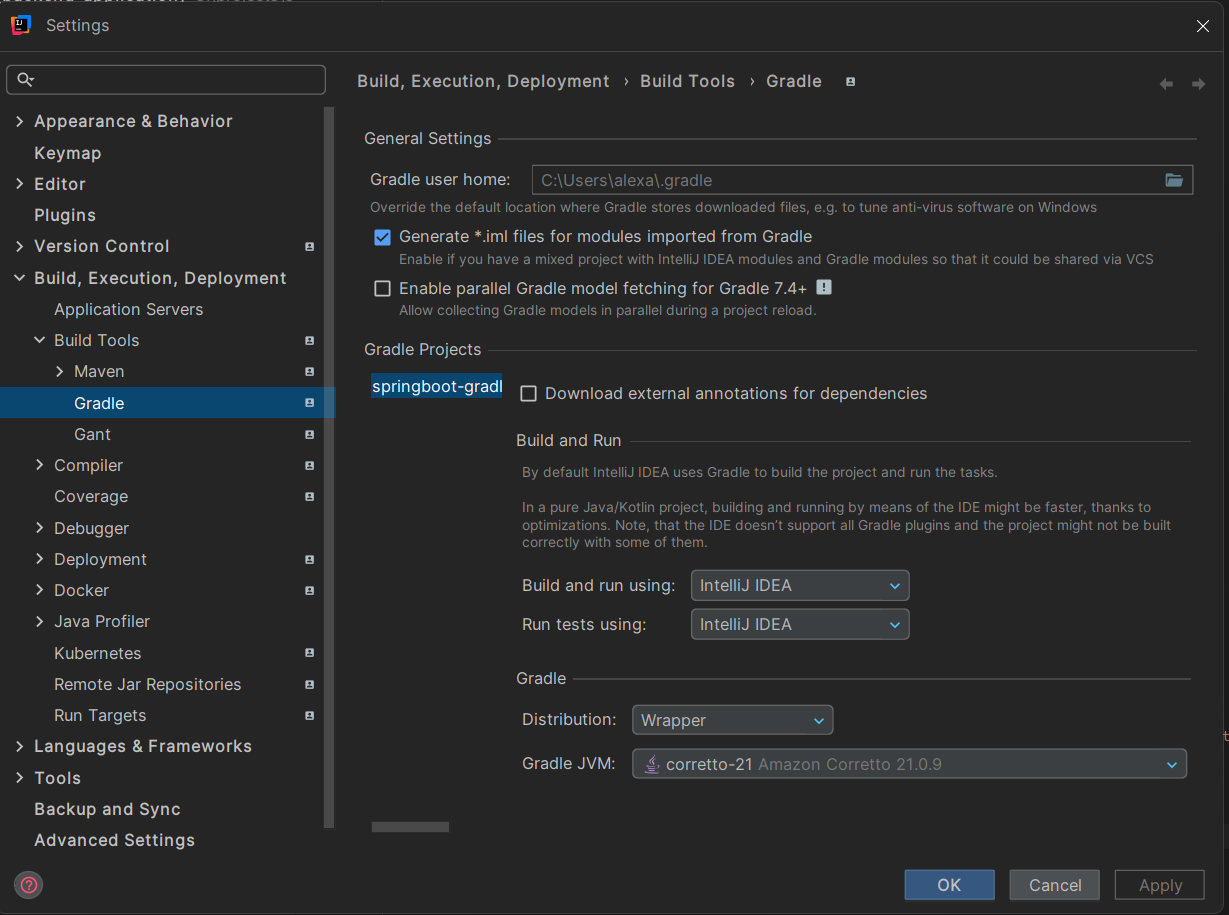
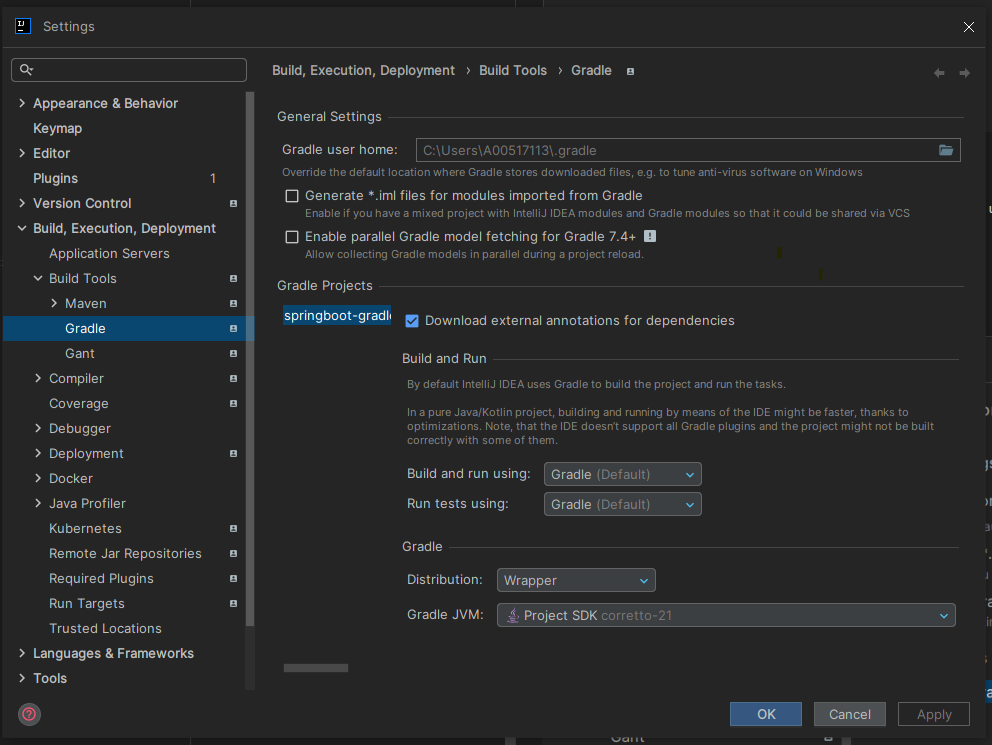
docs: Update README for IntelliJ compiler requirements and ignore generated mappers - Added troubleshooting note regarding @Param("token") annotation requirements. - Explained that explicit parameter naming is required when using the IntelliJ IDEA compiler instead of Gradle. - Updated .gitignore to 

diff --git a/src/main/java/com/example/backend/user/repository/UserRepository.java b/src/main/java/com/example/backend/user/repository/UserRepository.java
@@ -5,6 +5,7 @@ import java.util.Optional;
 import org.springframework.data.jpa.repository.JpaRepository;
 import org.springframework.data.jpa.repository.JpaSpecificationExecutor;
 import org.springframework.data.jpa.repository.Query;
+import org.springframework.data.repository.query.Param;
 import org.springframework.stereotype.Repository;
 
 /** Repository interface for User entity operations. */
@@ -17,7 +18,7 @@ public interface UserRepository extends JpaRepository<User, Long>, JpaSpecificat
    * @param username the username to search for
    * @return Optional containing the user if found
    */
-  Optional<User> findByUsername(String username);
+  Optional<User> findByUsername(@Param("username") String username);
 
   /**
    * Finds a user by email.
@@ -25,7 +26,7 @@ public interface UserRepository extends JpaRepository<User, Long>, JpaSpecificat
    * @param email the email to search for
    * @return Optional containing the user if found
    */
-  Optional<User> findByEmail(String email);
+  Optional<User> findByEmail(@Param("email") String email);
 
   /**
    * Checks if a user exists with the given username.
@@ -33,7 +34,7 @@ public interface UserRepository extends JpaRepository<User, Long>, JpaSpecificat
    * @param username the username to check
    * @return true if exists, false otherwise
    */
-  boolean existsByUsername(String username);
+  boolean existsByUsername(@Param("username") String username);
 
   /**
    * Checks if a user exists with the given email.
@@ -41,7 +42,7 @@ public interface UserRepository extends JpaRepository<User, Long>, JpaSpecificat
    * @param email the email to check
    * @return true if exists, false otherwise
    */
-  boolean existsByEmail(String email);
+  boolean existsByEmail(@Param("email") String email);
 
   /**
    * Counts all users by active status.
@@ -49,7 +50,7 @@ public interface UserRepository extends JpaRepository<User, Long>, JpaSpecificat
    * @param isActive the active status to filter by
    * @return count of users with the given active status
    */
-  long countByIsActive(boolean isActive);
+  long countByIsActive(@Param("isActive") boolean isActive);
 
   /**
    * Gets count of users grouped by role.

diff --git a/src/main/java/com/example/backend/user/repository/RefreshTokenRepository.java b/src/main/java/com/example/backend/user/repository/RefreshTokenRepository.java
@@ -7,6 +7,7 @@ import java.util.Optional;
 import org.springframework.data.jpa.repository.JpaRepository;
 import org.springframework.data.jpa.repository.Modifying;
 import org.springframework.data.jpa.repository.Query;
+import org.springframework.data.repository.query.Param;
 import org.springframework.stereotype.Repository;
 
 /** Repository for managing RefreshToken entities. */
@@ -28,7 +29,7 @@ public interface RefreshTokenRepository extends JpaRepository<RefreshToken, Long
    */
   @Modifying
   @Query("DELETE FROM RefreshToken rt WHERE rt.token = :token")
-  void deleteByToken(String token);
+  void deleteByToken(@Param("token") String token);
 
   /**
    * Deletes all refresh tokens for a specific user.
@@ -37,7 +38,7 @@ public interface RefreshTokenRepository extends JpaRepository<RefreshToken, Long
    */
   @Modifying
   @Query("DELETE FROM RefreshToken rt WHERE rt.user = :user")
-  void deleteByUser(User user);
+  void deleteByUser(@Param("user") User user);
 
   /**
    * Deletes all expired refresh tokens.
@@ -47,5 +48,5 @@ public interface RefreshTokenRepository extends JpaRepository<RefreshToken, Long
    */
   @Modifying
   @Query("DELETE FROM RefreshToken rt WHERE rt.expiresAt < :now")
-  int deleteExpiredTokens(Instant now);
+  int deleteExpiredTokens(@Param("now") Instant now);
 }

diff --git a/src/main/java/com/example/backend/audit/service/AuditLogService.java b/src/main/java/com/example/backend/audit/service/AuditLogService.java
@@ -74,8 +74,8 @@ public class AuditLogService {
         .equals("entityId", filter.getEntityId())
         .contains("ipAddress", filter.getIpAddress())
         .contains("requestUri", filter.getRequestUri())
-        .contains("httpMethod", filter.getHttpMethod())
-        .equals("success", filter.getSuccess())
+        .in("httpMethod", filter.getHttpMethods())
+        .in("success", filter.getSuccess())
         .between("createdAt", filter.getCreatedAtFrom(), filter.getCreatedAtTo())
         .in("username", filter.getUsernames())
         .in("operation", filter.getOperations())

diff --git a/src/main/java/com/example/backend/audit/dto/AuditLogFilterRequest.java b/src/main/java/com/example/backend/audit/dto/AuditLogFilterRequest.java
@@ -36,10 +36,10 @@ public class AuditLogFilterRequest {
   private String requestUri;
 
   @Schema(description = "Filter by HTTP method", example = "DELETE")
-  private String httpMethod;
+  private List<String> httpMethods;
 
   @Schema(description = "Filter by operation success status", example = "true")
-  private Boolean success;
+  private List<Boolean> success;
 
   @Schema(description = "Filter by multiple usernames", example = "[\"manager1\", \"clerk2\"]")
   private List<String> usernames;

diff --git a/src/main/java/com/example/backend/audit/dto/AuditLogFilter.java b/src/main/java/com/example/backend/audit/dto/AuditLogFilter.java
@@ -21,8 +21,8 @@ public class AuditLogFilter {
   private Long entityId;
   private String ipAddress;
   private String requestUri;
-  private String httpMethod;
-  private Boolean success;
+  private List<String> httpMethods;
+  private List<Boolean> success;
   private List<String> usernames;
   private List<String> operations;
   private List<String> entityTypes;

diff --git a/src/main/java/com/example/backend/user/controller/UserController.java b/src/main/java/com/example/backend/user/controller/UserController.java
@@ -139,7 +139,7 @@ public class UserController {
     return ResponseEntity.ok(BaseResponse.success(deletedUser, "User deleted successfully"));
   }
 
-  @PostMapping("/{id}/restore")
+  @PatchMapping("/{id}/restore")
   @Operation(
       summary = "Restore deleted user",
       description = "Restores a soft-deleted user by clearing deletion fields")

diff --git a/README.md b/README.md
@@ -174,8 +174,8 @@ First, configure the project SDK. Open the **Project Structure** menu (**Ctrl + 
 
 Navigate to **Settings** (**Ctrl + Alt + S** on Windows) and configure the following under **Build, Execution, Deployment > Build Tools > Gradle**:
 
-* **Build and run using:** IntelliJ IDEA
-* **Run tests using:** IntelliJ IDEA
+* **Build and run using:** Gradle
+* **Run tests using:** Gradle
 * **Distribution:** Wrapper
 * **Gradle JVM:** Project SDK (Amazon Corretto 21.0.9)
 
